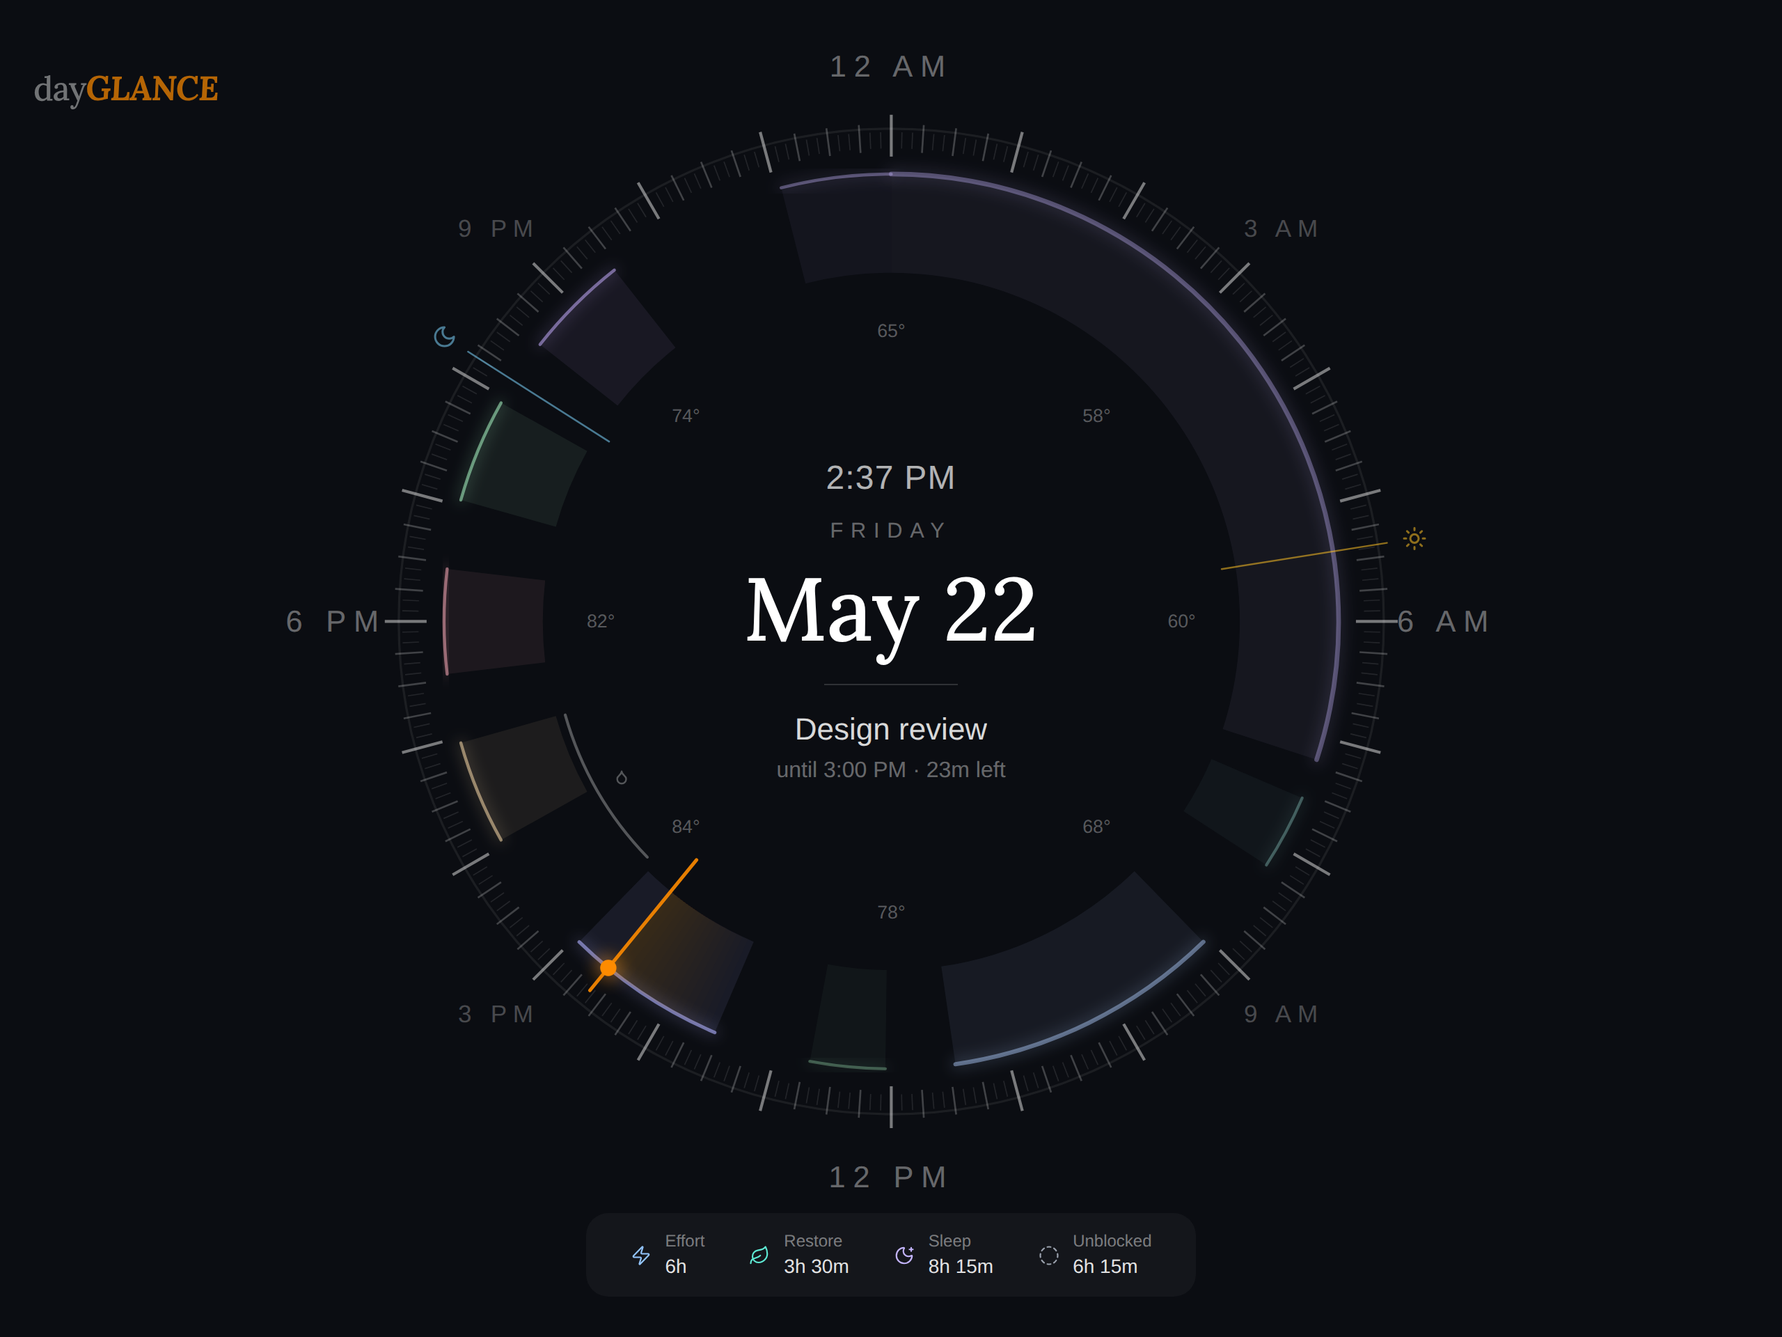
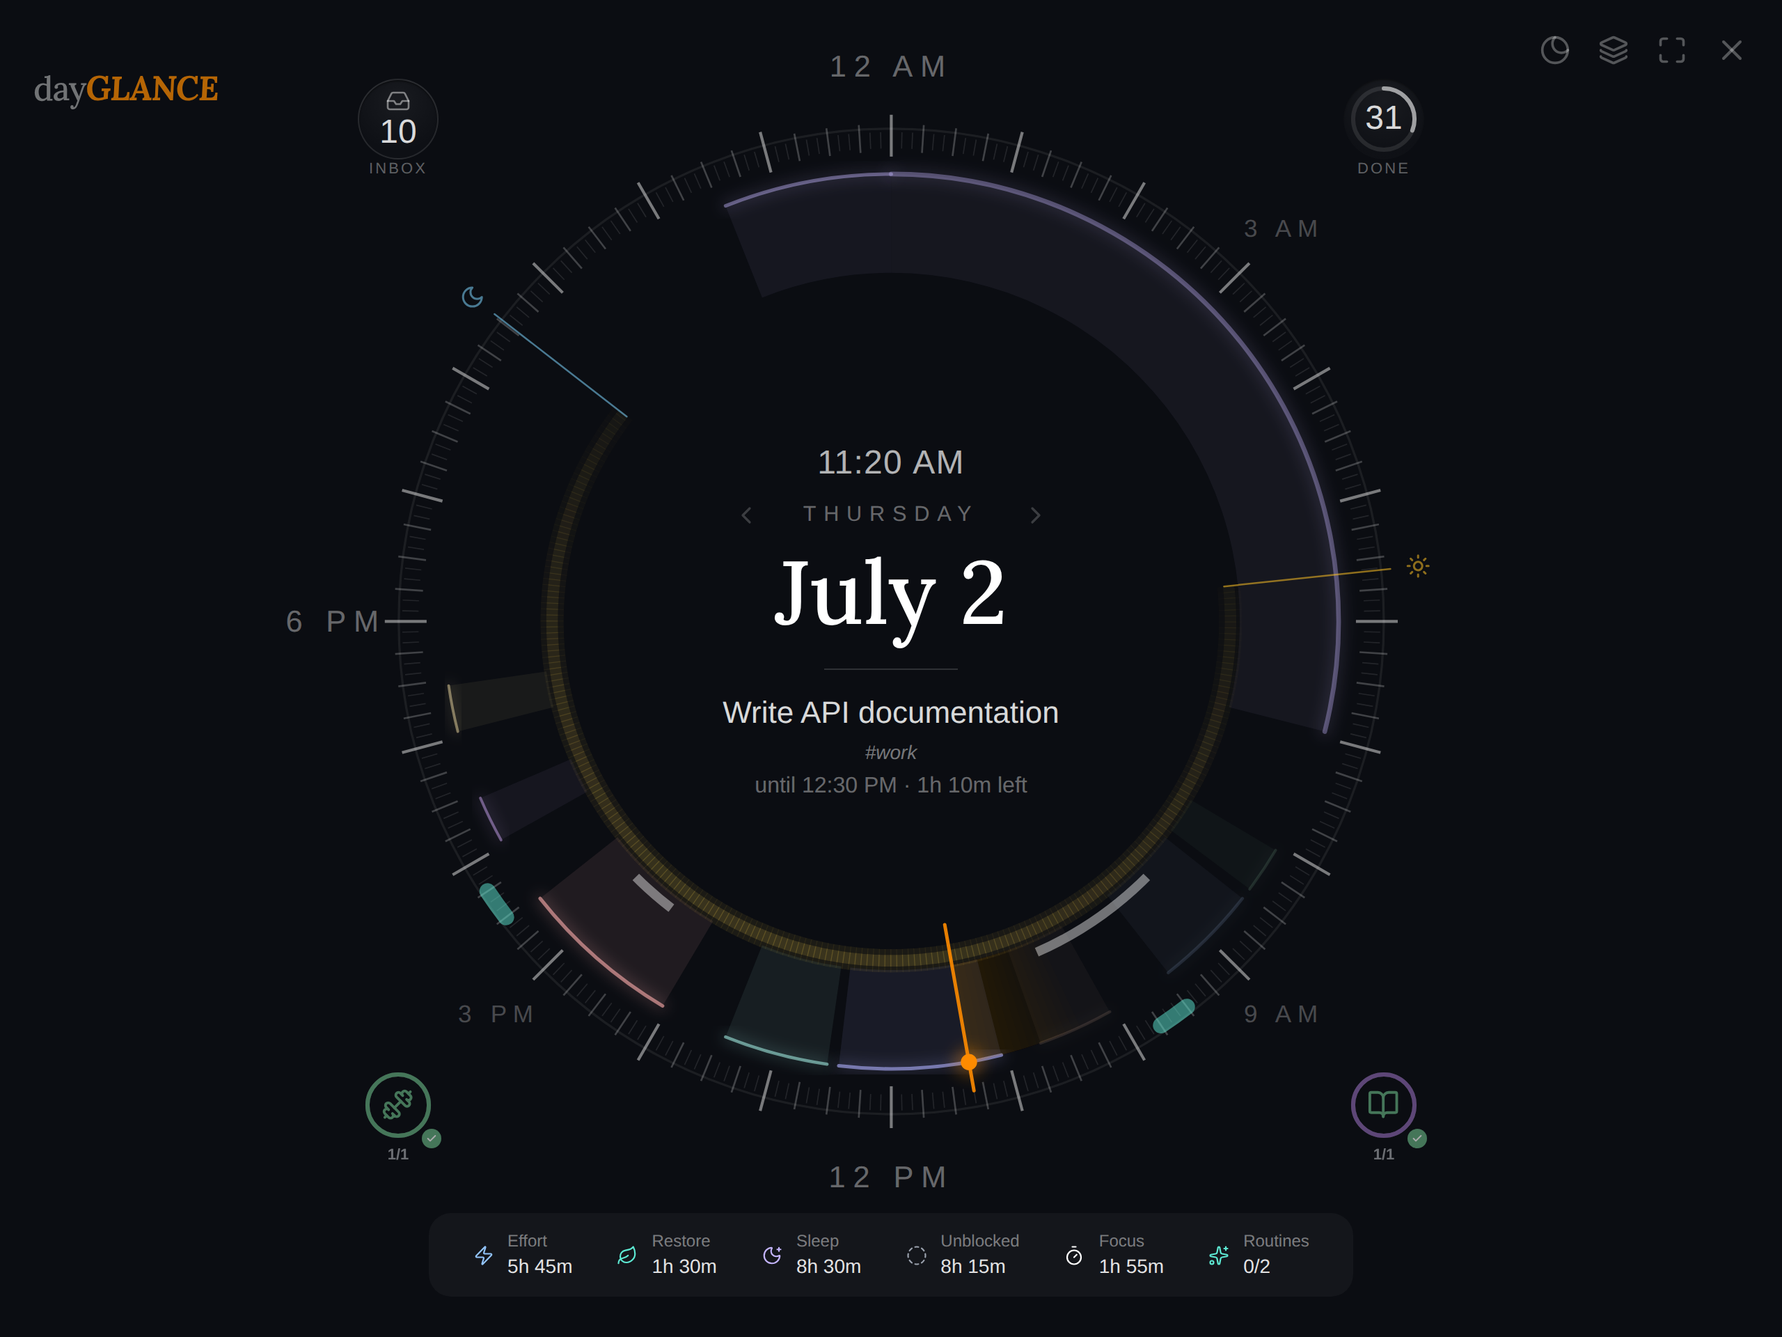
README: refresh the Day Dial capture, and drop the em dashes
The screenshot was a hand capture from before the daylight band, focus
sessions and the complications existed, so it showed none of them. It is
now produced by scripts/gen-readme-screenshots.mjs like the other fifteen,
which means the next refresh is one command rather than a manual session.

Three things the new step has to set up that the demo seed does not,
because they are per-device view preferences rather than data: which
readouts ride the face, a declared day window (without one the ring has no
night), and a focus log, which is only ever written by exiting focus mode
and so cannot be produced headlessly.

Two findings while getting it right. Caching coordinates is not enough on
its own: useWeather clears day-planner-weather-coords whenever no location
is configured ("location cleared -> the dial's sun marks go too"), which
takes the solar hairlines and the daylight band with them, so the capture
configures weather properly and seeds coordinates as a fallback for when
the fetch cannot reach the network. And a capture showing SOLAR data has
to pin a timezone: the browser runs UTC on CI, so Denver coordinates put
sunrise at noon. page() now takes an optional tz and time, and the dial
uses America/Denver at the instant that reads 11:20 there.

The hourly temperatures are absent in this particular capture because the
environment it was generated in blocks api.open-meteo.com; running the
script anywhere with network reaches the forecast and fills them in.
[…]

diff --git a/README.md b/README.md
@@ -109,9 +109,9 @@ chmod +x dayGLANCE-<version>-arm64.AppImage
 
 It will **not** appear in your applications menu on its own. Two ways to get it there:
 
-**[AppImageLauncher](https://github.com/TheAssassin/AppImageLauncher)** — install it once and every AppImage you open offers to integrate itself, moving the file somewhere sensible and creating the menu entry for you. This is the least work if you use AppImages for anything else.
+**[AppImageLauncher](https://github.com/TheAssassin/AppImageLauncher)**: install it once and every AppImage you open offers to integrate itself, moving the file somewhere sensible and creating the menu entry for you. This is the least work if you use AppImages for anything else.
 
-**A desktop entry by hand** — move the AppImage somewhere permanent, then write one file:
+**A desktop entry by hand**: move the AppImage somewhere permanent, then write one file:
 
 ```bash
 mkdir -p ~/.local/bin ~/.local/share/applications
@@ -236,29 +236,29 @@ A Pomodoro-style timer with customizable work, short break, and long break durat
 
 ### Day Dial
 
-An ambient, fullscreen view of the day as a 24-hour instrument dial — midnight at top, your schedule as a glowing ring, the current time as a single orange sweep line. Designed to be read from across the room: press `O` (or the dial button in the desktop header) to open it, `Esc` to close, `←`/`→` to page through days, `T` to jump back to today, and `F` for full screen. On mobile, tap the dial button at the top of the GLANCE tab and swipe sideways to page through days.
+An ambient, fullscreen view of the day as a 24-hour instrument dial: midnight at top, your schedule as a glowing ring, the current time as a single orange sweep line. Designed to be read from across the room: press `O` (or the dial button in the desktop header) to open it, `Esc` to close, `←`/`→` to page through days, `T` to jump back to today, and `F` for full screen. On mobile, tap the dial button at the top of the GLANCE tab and swipe sideways to page through days.
 
 ![The Day Dial](screenshots/day-dial.png)
 
-Overlapping blocks — a session nested inside an all-day conference, or a genuine double-booking — split onto concentric lanes instead of painting over each other, with the more specific block taking the outer edge. Lanes are scoped to each pile-up, so a clean afternoon keeps its wedges at the ring's full depth.
+Overlapping blocks (a session nested inside an all-day conference, or a genuine double-booking) split onto concentric lanes instead of painting over each other, with the more specific block taking the outer edge. Lanes are scoped to each pile-up, so a clean afternoon keeps its wedges at the ring's full depth.
 
-A block that runs past midnight is drawn flush to the boundary instead of stopping short at it, and reappears on the next day's dial for as long as it actually runs; both days name its true hours, with a `+1` or `−1` marker for the date the other end lands on. Blocks you have completed settle into a quiet filled shape with their rim all but gone, while one that has passed and was never ticked keeps its rim at full strength over a hollowed fill — so what is still owed stays legible in the spent part of the ring.
+A block that runs past midnight is drawn flush to the boundary instead of stopping short at it, and reappears on the next day's dial for as long as it actually runs; both days name its true hours, with a `+1` or `−1` marker for the date the other end lands on. Blocks you have completed settle into a quiet filled shape with their rim all but gone, while one that has passed and was never ticked keeps its rim at full strength over a hollowed fill, so what is still owed stays legible in the spent part of the ring.
 
-If routines are enabled, today's scheduled routines ride their own track inside the tick ring as quiet teal bars, each as long as the routine is scheduled for. They stay unlabelled at rest — hover one, or select it with the keyboard, and its name appears in a chip beside it; the routine running right now names itself with no input at all, so a wall panel always has something to read. Completed ones fade back, the legend counts them (`2/6`), and the Layers panel can turn the track off. Routines only exist for today, so no other date draws them.
+If routines are enabled, today's scheduled routines ride their own track inside the tick ring as quiet teal bars, each as long as the routine is scheduled for. They stay unlabelled at rest: hover one, or select it with the keyboard, and its name appears in a chip beside it; the routine running right now names itself with no input at all, so a wall panel always has something to read. Completed ones fade back, the legend counts them (`2/6`), and the Layers panel can turn the track off. Routines only exist for today, so no other date draws them.
 
-All-day items — a holiday, a birthday, anything without an hour — never go on the ring, since nothing timeless belongs on a time axis. They sit in their own pill at the bottom, in the same grammar as the day's totals: the two meet on the dial's vertical axis — the line under the 12 — and grow outward from it, so a landscape display spends none of its scarce height on them. Only a band too narrow for both — a phone — stacks them, and there they stretch to the dial's own width with the items spilling onto a second row. Each one opens the same actions as a scheduled block, and the pill collapses to a quiet "+N" when the day carries more than fit.
+All-day items (a holiday, a birthday, anything without an hour) never go on the ring, since nothing timeless belongs on a time axis. They sit in their own pill at the bottom, in the same grammar as the day's totals: the two meet on the dial's vertical axis, the line under the 12, and grow outward from it, so a landscape display spends none of its scarce height on them. Only a band too narrow for both, such as a phone, stacks them, and there they stretch to the dial's own width with the items spilling onto a second row. Each one opens the same actions as a scheduled block, and the pill collapses to a quiet "+N" when the day carries more than fit.
 
-Everything on the ring is reachable from the keyboard, with no tabbing to get there: press `↑` or `↓` anywhere in the dial and the block running now lights up and reads out in the hub, then those keys walk the day's blocks (`Home`/`End` for the first and last), `Enter` opens that block's actions — mark complete, open in planner — and `Esc` steps back out. Screen readers get the ring as a labelled list, each block announcing its title, time range, duration, and how long until it starts or ends.
+Everything on the ring is reachable from the keyboard, with no tabbing to get there: press `↑` or `↓` anywhere in the dial and the block running now lights up and reads out in the hub, then those keys walk the day's blocks (`Home`/`End` for the first and last), `Enter` opens that block's actions (mark complete, open in planner), and `Esc` steps back out. Screen readers get the ring as a labelled list, each block announcing its title, time range, duration, and how long until it starts or ends.
 
-If a weather location is set, hairlines mark sunrise (amber, with a sun glyph) and sunset (moonlight blue, with a moon glyph) — computed locally from your coordinates, so they work for any date and offline. Between them the lit part of the day is drawn as a soft band, brightest at solar noon and fading back into the hairlines at each horizon — its length and its brightness both come from the sun's real elevation, measured against the best noon your latitude ever gets, so a December day reads as short *and* low rather than being flattered into looking like June. Where the forecast reaches, the UV index scales it, which is the one part that knows about the sky rather than the geometry: haze, cloud and thin mountain air all show up there. Above the Arctic and Antarctic circles it does the honest thing at both extremes — lit right around the ring under the midnight sun, and absent through the polar night. On days the forecast covers, hour temperatures appear at the 3-hour marks and rain or snow spells are traced as a thin arc along the ring's inner edge. The Layers button in the corner toggles the solar marks, the weather ring, focus sessions, and imported calendar events; choices persist per device.
+If a weather location is set, hairlines mark sunrise (amber, with a sun glyph) and sunset (moonlight blue, with a moon glyph), computed locally from your coordinates, so they work for any date and offline. Between them the lit part of the day is drawn as a soft band, brightest at solar noon and fading back into the hairlines at each horizon. Its length and its brightness both come from the sun's real elevation, measured against the best noon your latitude ever gets, so a December day reads as short *and* low rather than being flattered into looking like June. Where the forecast reaches, the UV index scales it, which is the one part that knows about the sky rather than the geometry: haze, cloud and thin mountain air all show up there. Above the Arctic and Antarctic circles it does the honest thing at both extremes: lit right around the ring under the midnight sun, and absent through the polar night. On days the forecast covers, hour temperatures appear at the 3-hour marks and rain or snow spells are traced as a thin arc along the ring's inner edge. The Layers button in the corner toggles the solar marks, the weather ring, focus sessions, and imported calendar events; choices persist per device.
 
-**Complications** put up to four readouts in the corners of the face, watch-style, chosen in the Layers panel: your Inbox count (matching the sidebar's own filtered count exactly), the day's deadline count, how much of the day's planned work is **done**, and any habit — as its own ring and icon, no label. Tapping one opens it: the counts list what's in them, and each row carries two actions — a circle ticks the task off without leaving the dial, and the rest of the row hands it to the normal editor, so a deadline can still be given a time without a detour through the planner first. A habit works the way it does in GLANCE — a tap adds one (the point of the whole thing: one more glass of water without leaving the dial), a press-and-hold opens the counter for a correction. The counts are drawn as recessed subdials and the habit rings sit deliberately desaturated, so nothing on the face out-shines the now-line. The Done ring is weighed by minutes rather than by block count, so a two-hour block counts for more than a fifteen-minute errand, and it turns green only once everything scheduled is finished; tapping it lists what's left, and ticking a row there moves the ring you just tapped. It is a corner subdial rather than an arc on the ring for a reason: angle means time of day everywhere else on this face, so a sweep encoding a fraction would read as a span of hours. Readouts that are only about today — the inbox, a habit's tally — hide when you page to another date, while the ones that are facts about the day on screen stay. They appear only where the face is big enough to carry them, in one of three sizes chosen from the dial's measured diameter, so a phone dial stays uncluttered and a wall display doesn't get specks.
+**Complications** put up to four readouts in the corners of the face, watch-style, chosen in the Layers panel: your Inbox count (matching the sidebar's own filtered count exactly), the day's deadline count, how much of the day's planned work is **done**, and any habit, shown as its own ring and icon with no label. Tapping one opens it: the counts list what's in them, and each row carries two actions: a circle ticks the task off without leaving the dial, and the rest of the row hands it to the normal editor, so a deadline can still be given a time without a detour through the planner first. A habit works the way it does in GLANCE: a tap adds one (the point of the whole thing: one more glass of water without leaving the dial), a press-and-hold opens the counter for a correction. The counts are drawn as recessed subdials and the habit rings sit deliberately desaturated, so nothing on the face out-shines the now-line. The Done ring is weighed by minutes rather than by block count, so a two-hour block counts for more than a fifteen-minute errand, and it turns green only once everything scheduled is finished; tapping it lists what's left, and ticking a row there moves the ring you just tapped. It is a corner subdial rather than an arc on the ring for a reason: angle means time of day everywhere else on this face, so a sweep encoding a fraction would read as a span of hours. Readouts that are only about today, such as the inbox and a habit's tally, hide when you page to another date, while the ones that are facts about the day on screen stay. They appear only where the face is big enough to carry them, in one of three sizes chosen from the dial's measured diameter, so a phone dial stays uncluttered and a wall display doesn't get specks.
 
-**Focus sessions** are drawn as a pale rail inside the blocks they happened in. Focus mode can only run inside a block that is already on the ring, so the rail answers the one question the wedges cannot: not what you planned, but which part of it you actually sat down for. Back-to-back sessions inside one block read as a single stretch, and the day's total gets its own figure in the summary strip — kept out of the Effort and Restore totals, since those same minutes are already counted there. Tapping the block that is running now also offers to start a session, so the dial is a way in as well as a record. Sessions logged before this existed kept their totals but not their times, so the ring is honestly bare for those days.
+**Focus sessions** are drawn as a pale rail inside the blocks they happened in. Focus mode can only run inside a block that is already on the ring, so the rail answers the one question the wedges cannot: not what you planned, but which part of it you actually sat down for. Back-to-back sessions inside one block read as a single stretch, and the day's total gets its own figure in the summary strip, kept out of the Effort and Restore totals, since those same minutes are already counted there. Tapping the block that is running now also offers to start a session, so the dial is a way in as well as a record. Sessions logged before this existed kept their totals but not their times, so the ring is honestly bare for those days.
 
-For a wall display or kiosk, append `?dial` to the URL to boot straight into it — for example `http://localhost:6767/?dial` on a self-hosted Docker instance, or a pinned PWA on a wall tablet. The dial is built to run unattended: it follows the date across midnight, the cursor and corner buttons fade after a few seconds of stillness, and a browsed date snaps back to today after five idle minutes.
+For a wall display or kiosk, append `?dial` to the URL to boot straight into it, for example `http://localhost:6767/?dial` on a self-hosted Docker instance, or a pinned PWA on a wall tablet. The dial is built to run unattended: it follows the date across midnight, the cursor and corner buttons fade after a few seconds of stillness, and a browsed date snaps back to today after five idle minutes.
 
-**Ambient mode** turns the dial into a screensaver: press `A` (or the eclipse button) to go fullscreen with the screen wake lock held and all controls hidden — tap, click, or press any key to exit; a drifting cursor won't. While ambient, the whole face drifts through a slow pixel orbit to guard OLED panels against burn-in. Boot a kiosk straight into it with `?dial&ambient`, or enable auto-start in the Layers panel (`L`) with a configurable idle delay — including "Also start from planner", the true screensaver: after the idle delay anywhere in the app, the dial takes over, and waking returns you exactly where you were.
+**Ambient mode** turns the dial into a screensaver: press `A` (or the eclipse button) to go fullscreen with the screen wake lock held and all controls hidden. Tap, click, or press any key to exit; a drifting cursor won't. While ambient, the whole face drifts through a slow pixel orbit to guard OLED panels against burn-in. Boot a kiosk straight into it with `?dial&ambient`, or enable auto-start in the Layers panel (`L`) with a configurable idle delay, including "Also start from planner", the true screensaver: after the idle delay anywhere in the app, the dial takes over, and waking returns you exactly where you were.
 
 ### Spotlight Search
 
@@ -441,9 +441,9 @@ Pull step counts and activity data from **Google Health Connect** into your dail
 
 **Setup:** On first use, dayGLANCE will prompt you to grant Health Connect permissions via Android's standard permissions dialog. To manage or revoke permissions later, go to the **Android Health Connect app → App permissions → dayGLANCE**.
 
-### Automation Intents — Tasker (Android)
+### Automation Intents: Tasker (Android)
 
-Automate dayGLANCE from **Tasker**, MacroDroid, Automate, or any Android app that can send broadcasts. Four inbound actions — `CREATE`, `COMPLETE`, `OPEN`, and `QUERY` — each take a JSON `payload` extra, so a Tasker profile can add a task, complete one by title, jump to a tab, or read your current task counts. Every action replies with an `app.dayglance.RESULT` broadcast, and dayGLANCE emits `app.dayglance.NOTIFY` broadcasts whenever tasks change state (completed, rescheduled, updated, deleted), so your automations can react to what happens in the planner too.
+Automate dayGLANCE from **Tasker**, MacroDroid, Automate, or any Android app that can send broadcasts. Four inbound actions (`CREATE`, `COMPLETE`, `OPEN`, and `QUERY`) each take a JSON `payload` extra, so a Tasker profile can add a task, complete one by title, jump to a tab, or read your current task counts. Every action replies with an `app.dayglance.RESULT` broadcast, and dayGLANCE emits `app.dayglance.NOTIFY` broadcasts whenever tasks change state (completed, rescheduled, updated, deleted), so your automations can react to what happens in the planner too.
 
 **Setup:** Off by default. Enable in **Settings → GLANCE Integrations → "Automation intents (Tasker)"** (on phones, the "Automation intents" section). Full action and payload reference, with Tasker profile examples, in [docs/tasker-integration.md](docs/tasker-integration.md).
 
